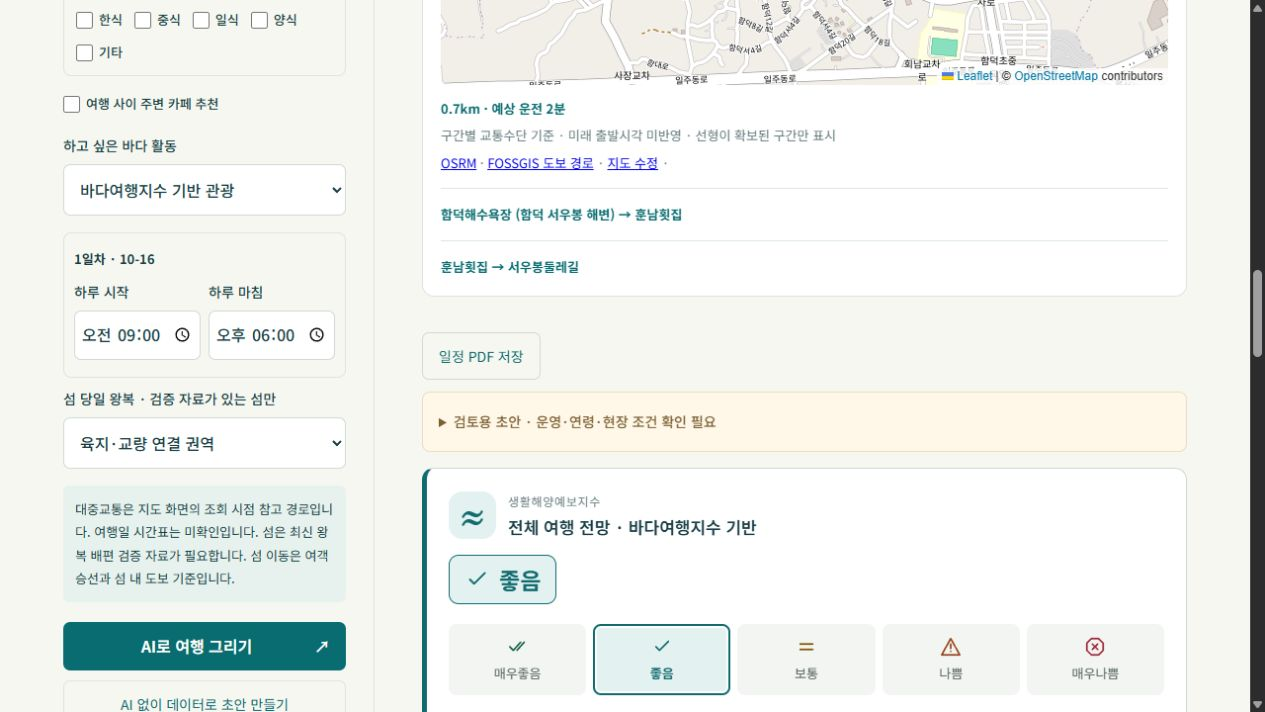
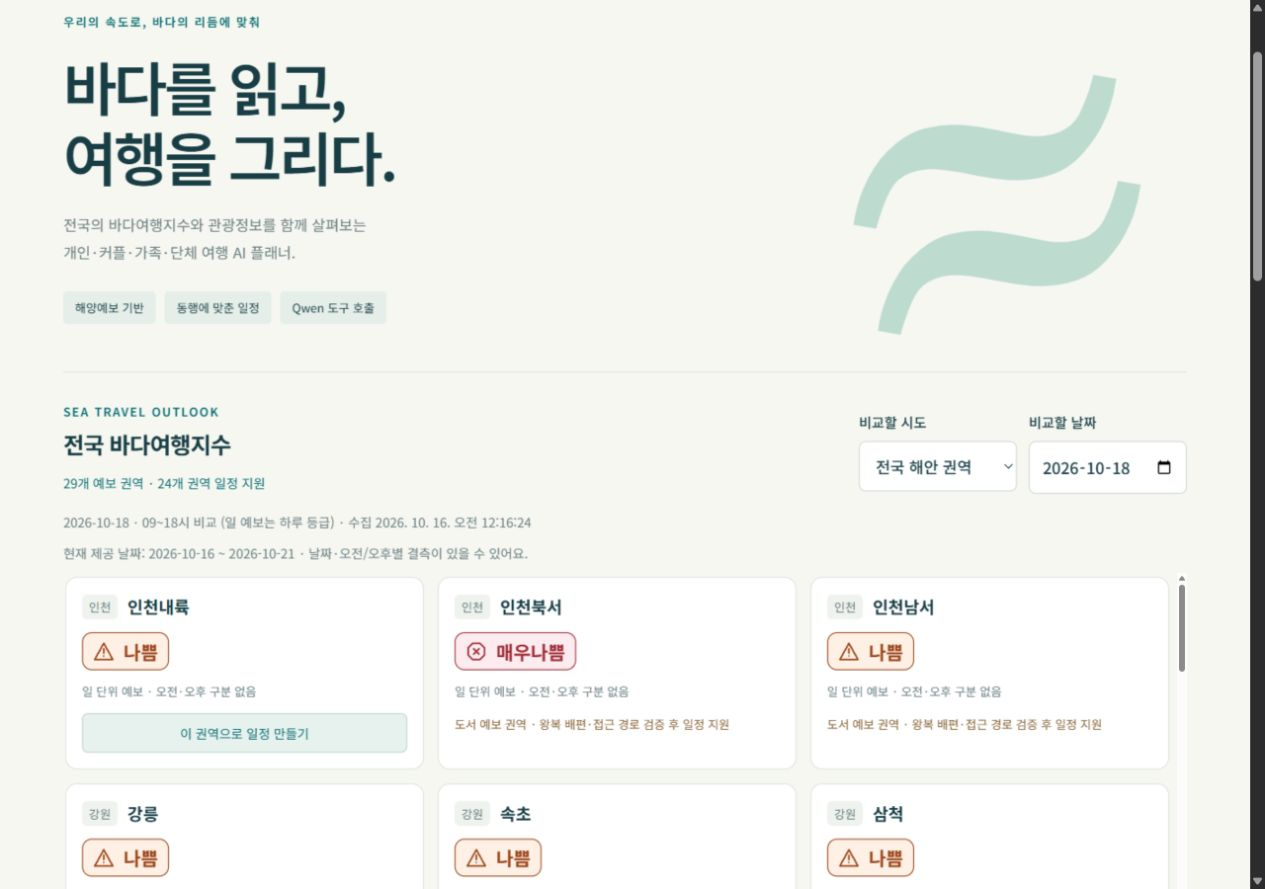
Simplify slides 13, 14, 16 and 18 for undergraduate audience
- 13: pipeline summary subtitle instead of SQL/DBMS definition
- 14: plain-language Docker title, 70s -> 45s
- 16: show Badagyeol home screen, 60s -> 85s
- 18: replace Docker/Kubernetes with Git/Linux basics

diff --git a/slides.js b/slides.js
@@ -319,7 +319,7 @@ const seminarContent = [
     ],
     "notes": "2025.06–2026.04 과업의 폐쇄망 파이프라인 개발 경험입니다. 반복 파일 감시, 규격 검토, GeoTIFF·유속 벡터 CSV 생성, 스키마·트랜잭션·이력 관리를 설명합니다. 입력 규격 통과와 과학적 정확도는 별개입니다. 내부 데이터·접속 정보는 공개하지 않습니다. 발표자는 대용량 자료의 순차 자동처리 운영에 Docker를 사용했다고 설명했습니다. 공개 OPERATIONS.md에는 감시 스크립트·잠금과 같은 이미지에서 역할별 watcher·게시 프로세스를 실행하는 예시가 있습니다. Docker 자체가 파일 순서를 자동 결정하거나 대용량 연산을 자동 가속하는 것으로 설명하지 않습니다. SQL은 데이터베이스에 조회·갱신을 요청하는 언어이며 PostgreSQL과 DuckDB는 SQL을 지원하는 DBMS입니다.",
     "seconds": 55,
-    "subtitle": "SQL은 자료를 조회·갱신하는 언어,\nDBMS는 자료를 저장·관리하는 소프트웨어입니다",
+    "subtitle": "파일이 들어오면\n확인하고, 바꾸고, 저장하고, 기록합니다",
     "tools": [
       {
         "name": "Python",
@@ -462,10 +462,10 @@ const seminarContent = [
     ]
   },
   {
-    "title": "Docker란 무엇이고\n순차 자동처리를 위해,\n왜 Docker를 썼을까요?",
+    "title": "내 PC에선 되는데\n서버에선 안 된다면?",
     "layout": "docker-intro",
     "chapter": "빅데이터 실무",
-    "subtitle": "Docker는 코드와 라이브러리를 묶어\n같은 환경에서 실행하는 컨테이너 도구입니다",
+    "subtitle": "Docker는 코드와 라이브러리를 묶어\n어디서나 같은 환경으로 실행하는 도구입니다",
     "items": [
       [
         "환경을 묶기",
@@ -492,7 +492,7 @@ const seminarContent = [
     "toolScope": "자동처리 운영을 위한 실행 도구",
     "footer": "ETL: 추출 → 변환 → 적재 · 처리 순서는 감시·잠금으로, 실행 환경은 Docker로 관리",
     "notes": "기술을 처음 듣는 학생에게 Docker 이미지는 코드와 실행에 필요한 환경을 묶은 실행 묶음, 컨테이너는 그 묶음을 실행하는 단위로 간단히 설명합니다. 새 서버마다 필요한 라이브러리를 따로 맞추는 부담과 서로 다른 업무의 의존성 충돌을 줄이고 반복 배포·실행을 관리하기 위해 썼다는 맥락입니다. 이 프로젝트의 순서·중복 실행 제어는 감시 스크립트·flock 잠금 등의 로직이며 Docker가 스케줄러나 순서 보장 알고리즘을 자동 제공하는 것은 아닙니다. 공개 운영 문서는 같은 sfr_005 이미지에서 NetCDF watcher, CSV watcher, 게시 프로세스를 역할별로 실행하는 예시와 파일 안정성 점검을 설명합니다. Docker가 필요한 모든 도구의 설치를 보장하거나 현재 공개 Dockerfile이 새 환경에서 재검증됐다고 주장하지 않습니다. Docker가 대용량 처리의 보편적 필수조건이거나 처리 속도를 자동 향상하는 것으로 설명하지 않습니다. 근거: Docker 공식 개념 안내와 현재 공개 OPERATIONS.md.",
-    "seconds": 70
+    "seconds": 45
   },
   {
     "title": "TB 단위 AIS를,\n선박의 움직임을 읽는 화면으로",
@@ -685,7 +685,7 @@ const seminarContent = [
     "layout": "research",
     "chapter": "빅데이터 실무",
     "image": "marine-travel-example.jpg",
-    "alt": "바다결 AI 에이전트의 해양관광 여행 일정 초안 예시",
+    "alt": "바다결 첫 화면. 앱 소개와 전국 바다여행지수 카드",
     "items": [
       "공공데이터 수집·정제 → Python 도구",
       "일정 생성 → 검증 → 선택 → 재검증",
@@ -697,8 +697,8 @@ const seminarContent = [
         "https://github.com/fortranmentis/marine-travel-AI-agent"
       ]
     ],
-    "notes": "2026.11.04 발표자 확인: 바다결은 개인 프로젝트에서 GeoSR 사내 기술개발 업무로 전환되었습니다. 해양·기상·관광 공공데이터를 연결하고 AI 에이전트가 도구를 호출해 맞춤형 해양관광 여행 계획을 제안하는 서비스를 개발 중입니다. 개발·연구 단계라는 점을 설명하고 상용 운영·예약·안전 보장이나 검증된 추천 성능을 주장하지 않습니다. 기존 공개 저장소의 일정 초안 화면을 예시로 사용하며 사내 자료를 새로 공개하지 않습니다. AI 활용 파트에서는 자료와 추천 근거를 사람이 검토해야 한다는 메시지로 연결합니다. 개인 앱 세 가지는 뒤의 개인 개발 프로젝트 화면에서 별도로 소개합니다. 기술 설명(2026.11.04 공개 README v0.9.0 확인): 빅데이터가 사라지거나 모든 분야가 AI 에이전트로 대체된다는 뜻이 아닙니다. 자료 수집·정제·검증이라는 기반 위에 모델과 도구 호출, 상태 관리, 사람의 선택을 연결하는 업무 확장으로 설명합니다. FastAPI가 서비스 API를 제공하고 Ollama가 Qwen 모델을 실행합니다. Python의 명시적 일정·날씨·예약 규칙과 typed tools를 연결합니다. 폼 기반 요청은 LangGraph의 생성→검증→조건 부족 시 사용자 선택 대기→재검증→완료 흐름을 사용하고 최대 두 번 재검증합니다. SQLite 체크포인트로 제한된 기간 동안 상태를 복구합니다. 자유 대화는 별도의 제한된 도구 호출 루프입니다. n8n은 정기 자료 수집을, Langfuse는 허용된 실행 단계·시간·보고된 토큰 수 추적을 담당합니다. 원문 프롬프트·내부 추론·출력 전문을 수집한다는 뜻은 아닙니다. 학생들에게 도구 연결·검증·상태 관리·실행 기록을 학습해보라고 제안합니다.",
-    "seconds": 60,
+    "notes": "2026.11.04 발표자 확인: 바다결은 개인 프로젝트에서 GeoSR 사내 기술개발 업무로 전환되었습니다. 해양·기상·관광 공공데이터를 연결하고 AI 에이전트가 도구를 호출해 맞춤형 해양관광 여행 계획을 제안하는 서비스를 개발 중입니다. 개발·연구 단계라는 점을 설명하고 상용 운영·예약·안전 보장이나 검증된 추천 성능을 주장하지 않습니다. 기존 공개 저장소의 첫 화면(앱 소개·바다여행지수)을 예시로 사용하며 사내 자료를 새로 공개하지 않습니다. AI 활용 파트에서는 자료와 추천 근거를 사람이 검토해야 한다는 메시지로 연결합니다. 개인 앱 세 가지는 뒤의 개인 개발 프로젝트 화면에서 별도로 소개합니다. 기술 설명(2026.11.04 공개 README v0.9.0 확인): 빅데이터가 사라지거나 모든 분야가 AI 에이전트로 대체된다는 뜻이 아닙니다. 자료 수집·정제·검증이라는 기반 위에 모델과 도구 호출, 상태 관리, 사람의 선택을 연결하는 업무 확장으로 설명합니다. FastAPI가 서비스 API를 제공하고 Ollama가 Qwen 모델을 실행합니다. Python의 명시적 일정·날씨·예약 규칙과 typed tools를 연결합니다. 폼 기반 요청은 LangGraph의 생성→검증→조건 부족 시 사용자 선택 대기→재검증→완료 흐름을 사용하고 최대 두 번 재검증합니다. SQLite 체크포인트로 제한된 기간 동안 상태를 복구합니다. 자유 대화는 별도의 제한된 도구 호출 루프입니다. n8n은 정기 자료 수집을, Langfuse는 허용된 실행 단계·시간·보고된 토큰 수 추적을 담당합니다. 원문 프롬프트·내부 추론·출력 전문을 수집한다는 뜻은 아닙니다. 학생들에게 도구 연결·검증·상태 관리·실행 기록을 학습해보라고 제안합니다.",
+    "seconds": 85,
     "tools": [
       {
         "name": "LangGraph",
@@ -788,11 +788,11 @@ const seminarContent = [
         "SQL로 조회하기 · PostgreSQL·DuckDB로 자료 관리"
       ],
       [
-        "Docker · Kubernetes",
-        "실행 환경 묶기 · 여러 컨테이너의 배포·운영 관리"
+        "Git · Linux 기초",
+        "코드 버전 관리 · 서버에서 명령어로 실행하기"
       ]
     ],
-    "notes": "데이터 규모나 처리량을 실제 측정하지 않았으므로 TB·실시간 처리 성능 등의 수치를 만들지 않습니다. 데이터 종류·좌표·시간과 출처가 달라 생기는 업무를 설명합니다. 빅데이터를 단순히 파일이 크다는 뜻으로만 설명하지 않습니다. 여러 시각·위치·형식의 자료가 반복 축적될 때 이를 일관되게 처리하고 품질을 확인하는 업무를 강조합니다. 위성자료는 환경 빅데이터의 예이며 발표자의 모든 업무에서 처리했다는 의미가 아닙니다. 발표자가 제안한 학습 도구 목록입니다. Python·pandas로 읽기와 집계를 익히고 NumPy 수치 계산, Polars 지연 실행과 열 선택, multiprocessing의 독립 작업 분할, SQL 조회, Docker 환경 관리를 역할별로 살펴봅니다. 모두를 먼저 완벽히 익혀야 분석을 시작할 수 있다는 뜻은 아닙니다. 병렬처리는 작업·입출력·메모리·프로세스 생성 비용에 따라 이점이 달라지므로 단일 프로세스와 같은 결과인지, 시간·메모리가 어떤지 측정합니다. 대용량 파일 자체보다 질문과 결과 해석을 먼저 정합니다.",
+    "notes": "데이터 규모나 처리량을 실제 측정하지 않았으므로 TB·실시간 처리 성능 등의 수치를 만들지 않습니다. 데이터 종류·좌표·시간과 출처가 달라 생기는 업무를 설명합니다. 빅데이터를 단순히 파일이 크다는 뜻으로만 설명하지 않습니다. 여러 시각·위치·형식의 자료가 반복 축적될 때 이를 일관되게 처리하고 품질을 확인하는 업무를 강조합니다. 위성자료는 환경 빅데이터의 예이며 발표자의 모든 업무에서 처리했다는 의미가 아닙니다. 발표자가 제안한 학습 도구 목록입니다. Python·pandas로 읽기와 집계를 익히고 NumPy 수치 계산, Polars 지연 실행과 열 선택, multiprocessing의 독립 작업 분할, SQL 조회, Git 버전 관리와 Linux 명령어 기초를 역할별로 살펴봅니다. Docker는 앞의 실무 예시로 소개했고, 학습 시작 단계에서는 Git·Linux 기초를 우선 권합니다. 모두를 먼저 완벽히 익혀야 분석을 시작할 수 있다는 뜻은 아닙니다. 병렬처리는 작업·입출력·메모리·프로세스 생성 비용에 따라 이점이 달라지므로 단일 프로세스와 같은 결과인지, 시간·메모리가 어떤지 측정합니다. 대용량 파일 자체보다 질문과 결과 해석을 먼저 정합니다.",
     "seconds": 90
   },
   {
